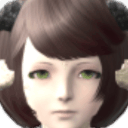
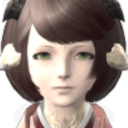
portrait pack: keep the supervisor-passed boxes the reconciler left unchanged
make_overrides.py adds rule 3: a pack row the reconciler left unchanged
with a supervisor pass keeps that box as an override, so the head finder
never makes a good frame worse (--head-boxes reports which of these it
would frame differently). One row: Sayo (1019199), [138.3, 86.6, 101.9].
Bundled pack rebuilt (only 1019199.png and the manifest change). Also
fixes PortraitSource.Pack's doc, which still described the download.

diff --git a/tools/portrait-pack/make_overrides.py b/tools/portrait-pack/make_overrides.py
@@ -8,14 +8,20 @@ Every pack row of reconciled/reconciled.json is one Garland photo shared by the 
      over the width): side = s * W, x = cx * W - side / 2, y = cy * H - side / 2, clamped to the photo.
    - "accept": the reconciler's final box (final.curated.photoBox).
 2. No answer: the reconciler's final box, when it changed the box (final.action "change") and the face-centring
-   supervisor passed it (reconciled/supervisor/verdicts.json). Otherwise the row gets no override and the builder's
-   head finder frames the photo.
+   supervisor passed it (reconciled/supervisor/verdicts.json).
+3. No answer, and the reconciler kept the pack-1 box (final.action not "change") with a supervisor pass: that kept box.
+   It was a good frame already, and the head finder's rule must not make it worse. Run with --head-boxes (below) to
+   see which of these the head finder would frame differently.
+Otherwise the row gets no override and the builder's head finder frames the photo.
 
 A box under 72 px (the builder's MinBox: the 72 px plate never upscales) is held at 72 px with its eye line (0.44 of
 the side) and centre where they were, as the reconciler held its own, then clamped to the photo.
 
-Usage, from the repository root: py -3 tools/portrait-pack/make_overrides.py [--check]
+Usage, from the repository root: py -3 tools/portrait-pack/make_overrides.py [--check] [--head-boxes <boxes.json>]
 --check exits 1 when the file on disk differs from what the audit files give.
+--head-boxes reads the boxes.json a --portrait-pack build wrote and says, for each kept box (rule 3), whether the head
+finder's own square agrees with it (centres within 0.05 of the side, sides within 10 %, as report.md counts). It only
+reports: the file never depends on a build.
 """
 import json
 import os
@@ -52,6 +58,7 @@ def build():
     owner = {c['key']: c for c in load('desk', 'owner-answers.json')['corrections'] if c['key'].startswith('pack:')}
     stats = Counter()
     skipped = []
+    kept = []
     out = {}
     for row in rows:
         key, photo = row['key'], row['id']
@@ -78,6 +85,11 @@ def build():
             box = held(*final['curated']['photoBox'], w, h)
             stats['reconciler, supervisor pass'] += 1
             note = f'reconciler box, supervisor pass, photo {photo}'
+        elif verdicts.get(key, {}).get('verdict') == 'pass':
+            box = held(*final['curated']['photoBox'], w, h)
+            stats['kept box, supervisor pass'] += 1
+            kept.append(photo)
+            note = f'kept box (unchanged by the reconciler), supervisor pass, photo {photo}'
         else:
             why = 'box unchanged by the reconciler' if final['action'] != 'change' else \
                 f'supervisor verdict {verdicts.get(key, {}).get("verdict", "none")}'
@@ -97,7 +109,7 @@ def build():
                 'script, not this file.',
         'overrides': dict(sorted(out.items(), key=lambda kv: int(kv[0]))),
     }
-    return data, stats, skipped
+    return data, stats, skipped, kept
 
 
 def render(data):
@@ -116,7 +128,7 @@ def render(data):
 
 
 def main():
-    data, stats, skipped = build()
+    data, stats, skipped, kept = build()
     text = render(data)
     if '--check' in sys.argv:
         with open(OUT, encoding='utf-8') as f:
@@ -125,13 +137,31 @@ def main():
         return 0 if same else 1
     with open(OUT, 'w', encoding='utf-8', newline='\n') as f:
         f.write(text)
-    photos = stats['owner adjust'] + stats['owner accept'] + stats['reconciler, supervisor pass']
+    photos = stats['owner adjust'] + stats['owner accept'] + stats['reconciler, supervisor pass'] + stats['kept box, supervisor pass']
     print(f'{OUT}: {len(data["overrides"])} NPCs on {photos} photos')
     for k, v in stats.items():
         print(f'  {k}: {v}')
     for photo, who, why in skipped:
         print(f'  no override: photo {photo} ({who}): {why}')
+    if '--head-boxes' in sys.argv:
+        report_head(data, kept, sys.argv[sys.argv.index('--head-boxes') + 1])
     return 0
+
+
+def report_head(data, kept, path):
+    """For each kept box (rule 3), whether the head finder's square in a build's boxes.json agrees with it."""
+    with open(path, encoding='utf-8') as f:
+        boxes = json.load(f)
+    by_photo = {int(e['note'].split('photo ')[1].split(',')[0]): e['photoBox'] for e in data['overrides'].values()}
+    for photo in kept:
+        a, h = by_photo[photo], boxes.get(f'{photo}.png', {}).get('head')
+        if h is None:
+            print(f'  kept box, photo {photo}: {a}; the head finder found no head')
+            continue
+        agrees = (abs((a[0] + a[2] / 2) - (h[0] + h[2] / 2)) <= 0.05 * a[2]
+                  and abs((a[1] + a[2] / 2) - (h[1] + h[2] / 2)) <= 0.05 * a[2]
+                  and abs(h[2] / a[2] - 1) <= 0.1)
+        print(f'  kept box, photo {photo}: {a}; head finder {h}: {"agrees" if agrees else "differs"}')
 
 
 if __name__ == '__main__':

diff --git a/Tsukimichi.Core/Portraits/PortraitSource.cs b/Tsukimichi.Core/Portraits/PortraitSource.cs
@@ -37,9 +37,10 @@ public enum PortraitSource : byte
     TrustStrip = 5,
 
     /// <summary>
-    /// A photo from the optional portrait pack (feature plan v7 F4): a Garland Tools render of that exact NPC, head-cropped
-    /// offline to a <see cref="PortraitPackManifest.ImageSide"/> px square and installed only when the player downloads the
-    /// pack. Its <see cref="PortraitRef.Icon"/> is the ENpcResident id whose photo it is, not a game icon.
+    /// A giver photo from the portrait pack that ships with the plugin (feature plan v7 F4, <see cref="BundledPortraits"/>):
+    /// a Garland Tools render of that exact NPC, head-cropped offline to a <see cref="PortraitPackManifest.ImageSide"/> px
+    /// square, shown under Game art + photos. Its <see cref="PortraitRef.Icon"/> is the ENpcResident id whose photo it is,
+    /// not a game icon.
     /// </summary>
     Pack = 6,
 }

diff --git a/docs/data/portrait-pack.md b/docs/data/portrait-pack.md
@@ -42,7 +42,8 @@ dotnet run --project Tsukimichi.DataGen -c Release --no-build -- `
 - **Per-NPC boxes** (`tools/portrait-pack/portrait_pack_overrides.json`) map an ENpc id to `photoBox` [x, y, side] in that giver's Garland photo pixels, with a note. Givers who share a photo share the box. A per-NPC box is kept even where the head finder would drop the frame as empty: the owner keeps faceless subjects such as helmets and masks. `tools/portrait-pack/make_overrides.py` writes the file from the audit (`--check` reports a stale file):
   - the owner's own box where he adjusted one on the Portrait Desk;
   - the reconciler's box where he accepted it;
-  - otherwise the reconciler's box when it changed the frame and the face-centring supervisor passed it.
+  - otherwise the reconciler's box when it changed the frame and the face-centring supervisor passed it;
+  - otherwise the box the reconciler kept from pack 1 when the supervisor passed it, so the head finder never makes a good frame worse (`--head-boxes <boxes.json>` reports which of these the head finder would frame differently).
   A box under 72 px is held at 72 px on the same eye line.
 
 ### Same inputs, same bytes
